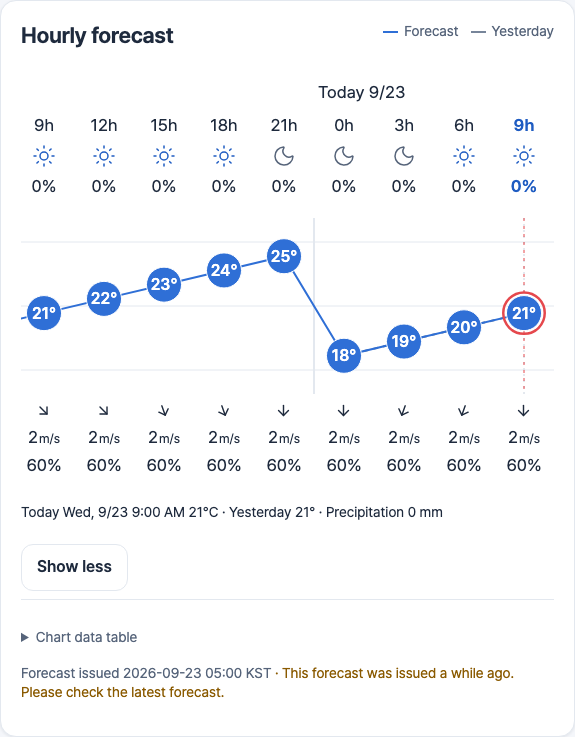
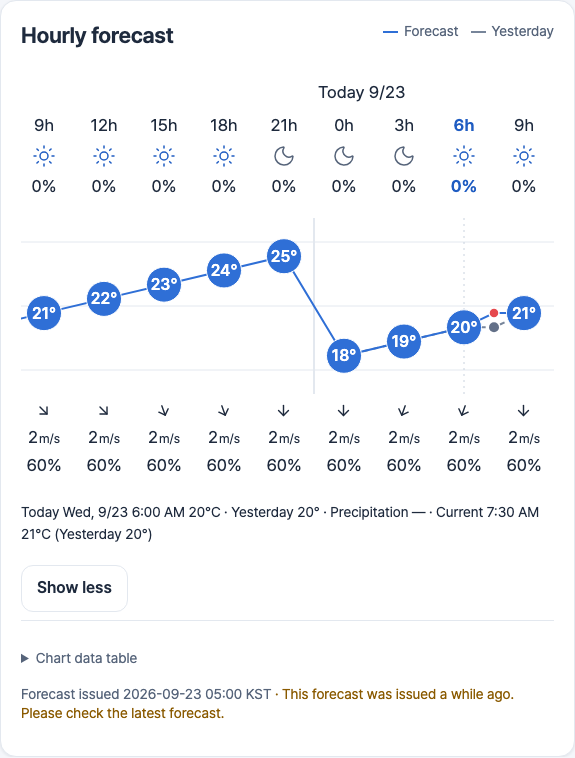
fix(web): mark the between-column observation with the native red point
Cordova/native draw the current temperature between columns as a filled
red point (circle-today-current, r=5) with a grey point for yesterday,
without a ring or line. The manual capture uses an off-hour liveTime so
the hourly screenshot shows it.

diff --git a/web/src/Charts.tsx b/web/src/Charts.tsx
@@ -439,32 +439,20 @@ export function HourlyChart({ weather: w }: { weather: Weather }) {
               />
               {model.current && (
                 <g className="current-marker">
-                  <line
-                    className="now-line"
-                    x1={currentX}
-                    x2={currentX}
-                    y1={0}
-                    y2={height}
-                  />
+                  {/* Native: same-size filled points, red for today and grey for yesterday (Cordova circle-*-current, r=5). */}
                   {model.current.yesterday !== null && (
                     <circle
-                      className="yesterday-point"
+                      className="yesterday-point now-yesterday"
                       cx={currentX}
                       cy={y(model.current.yesterday)}
-                      r={rem * 0.25}
+                      r={rem * 0.3125}
                     />
                   )}
                   <circle
-                    className="today-point"
+                    className="now-point"
                     cx={currentX}
                     cy={y(model.current.temperature)}
-                    r={rem * 0.3}
-                  />
-                  <circle
-                    className="now"
-                    cx={currentX}
-                    cy={y(model.current.temperature)}
-                    r={rem * 0.3 + rem * 0.2}
+                    r={rem * 0.3125}
                   />
                 </g>
               )}

diff --git a/web/e2e/pwa-design.spec.ts b/web/e2e/pwa-design.spec.ts
@@ -844,10 +844,17 @@ test("hourly chart matches the native columns: three-hour rows from yesterday, s
   await expect(
     page.locator(".hourly-columns .current-column .chart-probability"),
   ).toHaveText("0%");
+  // Native: a filled red point (no ring or line) marks the observation.
   const marker = await scroll.evaluate((el) => {
-    const line = el.querySelector(".current-marker .now-line");
-    return line ? Number(line.getAttribute("x1")) : null;
+    const point = el.querySelector(".current-marker .now-point");
+    return point ? Number(point.getAttribute("cx")) : null;
   });
+  await expect(scroll.locator(".current-marker .now-line")).toHaveCount(0);
+  // chart.now #e5484d (light), the native red current point.
+  await expect(scroll.locator(".current-marker .now-point")).toHaveCSS(
+    "fill",
+    "rgb(229, 72, 77)",
+  );
   expect(marker).not.toBeNull();
   expect(Math.abs(marker! - metrics.column * 9)).toBeLessThan(1);
   // The observation is announced with the column before it and is in the table.

diff --git a/web/src/style.css b/web/src/style.css
@@ -2472,6 +2472,11 @@ textarea {
 .hourly-chart .yesterday-value {
   fill: var(--tw-chart-yesterday-on);
 }
+.now-point {
+  fill: var(--tw-chart-now);
+  stroke: var(--tw-bg-surface);
+  stroke-width: 1.5;
+}
 .now-line {
   stroke: var(--tw-chart-now);
   stroke-width: 1;
@@ -2630,7 +2635,8 @@ textarea {
   .range,
   .today-point,
   .yesterday-point,
-  .now {
+  .now,
+  .now-point {
     fill: CanvasText;
   }
   .hourly-chart .now {
